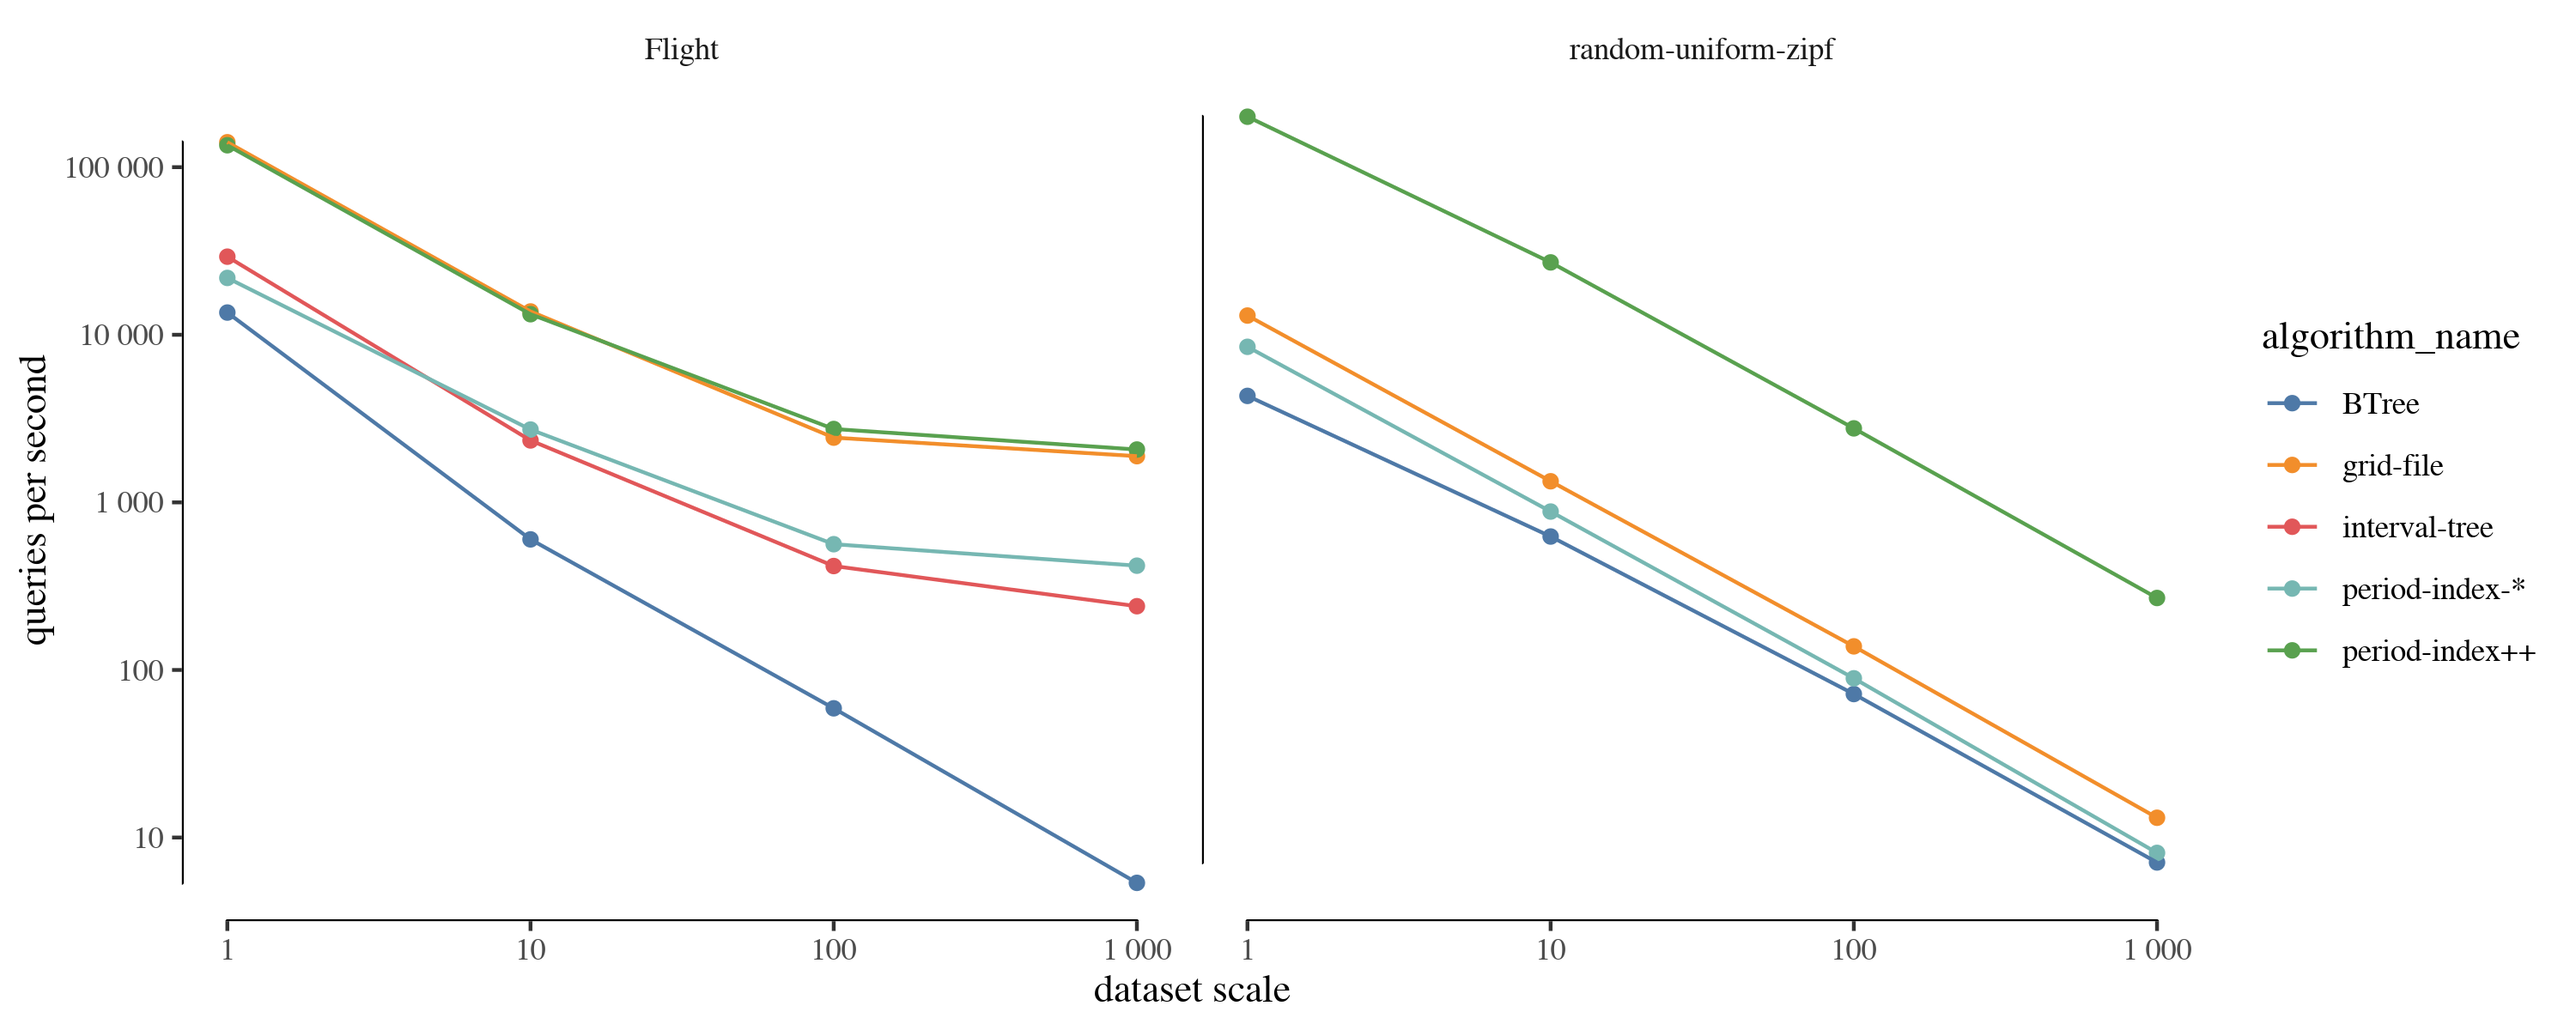
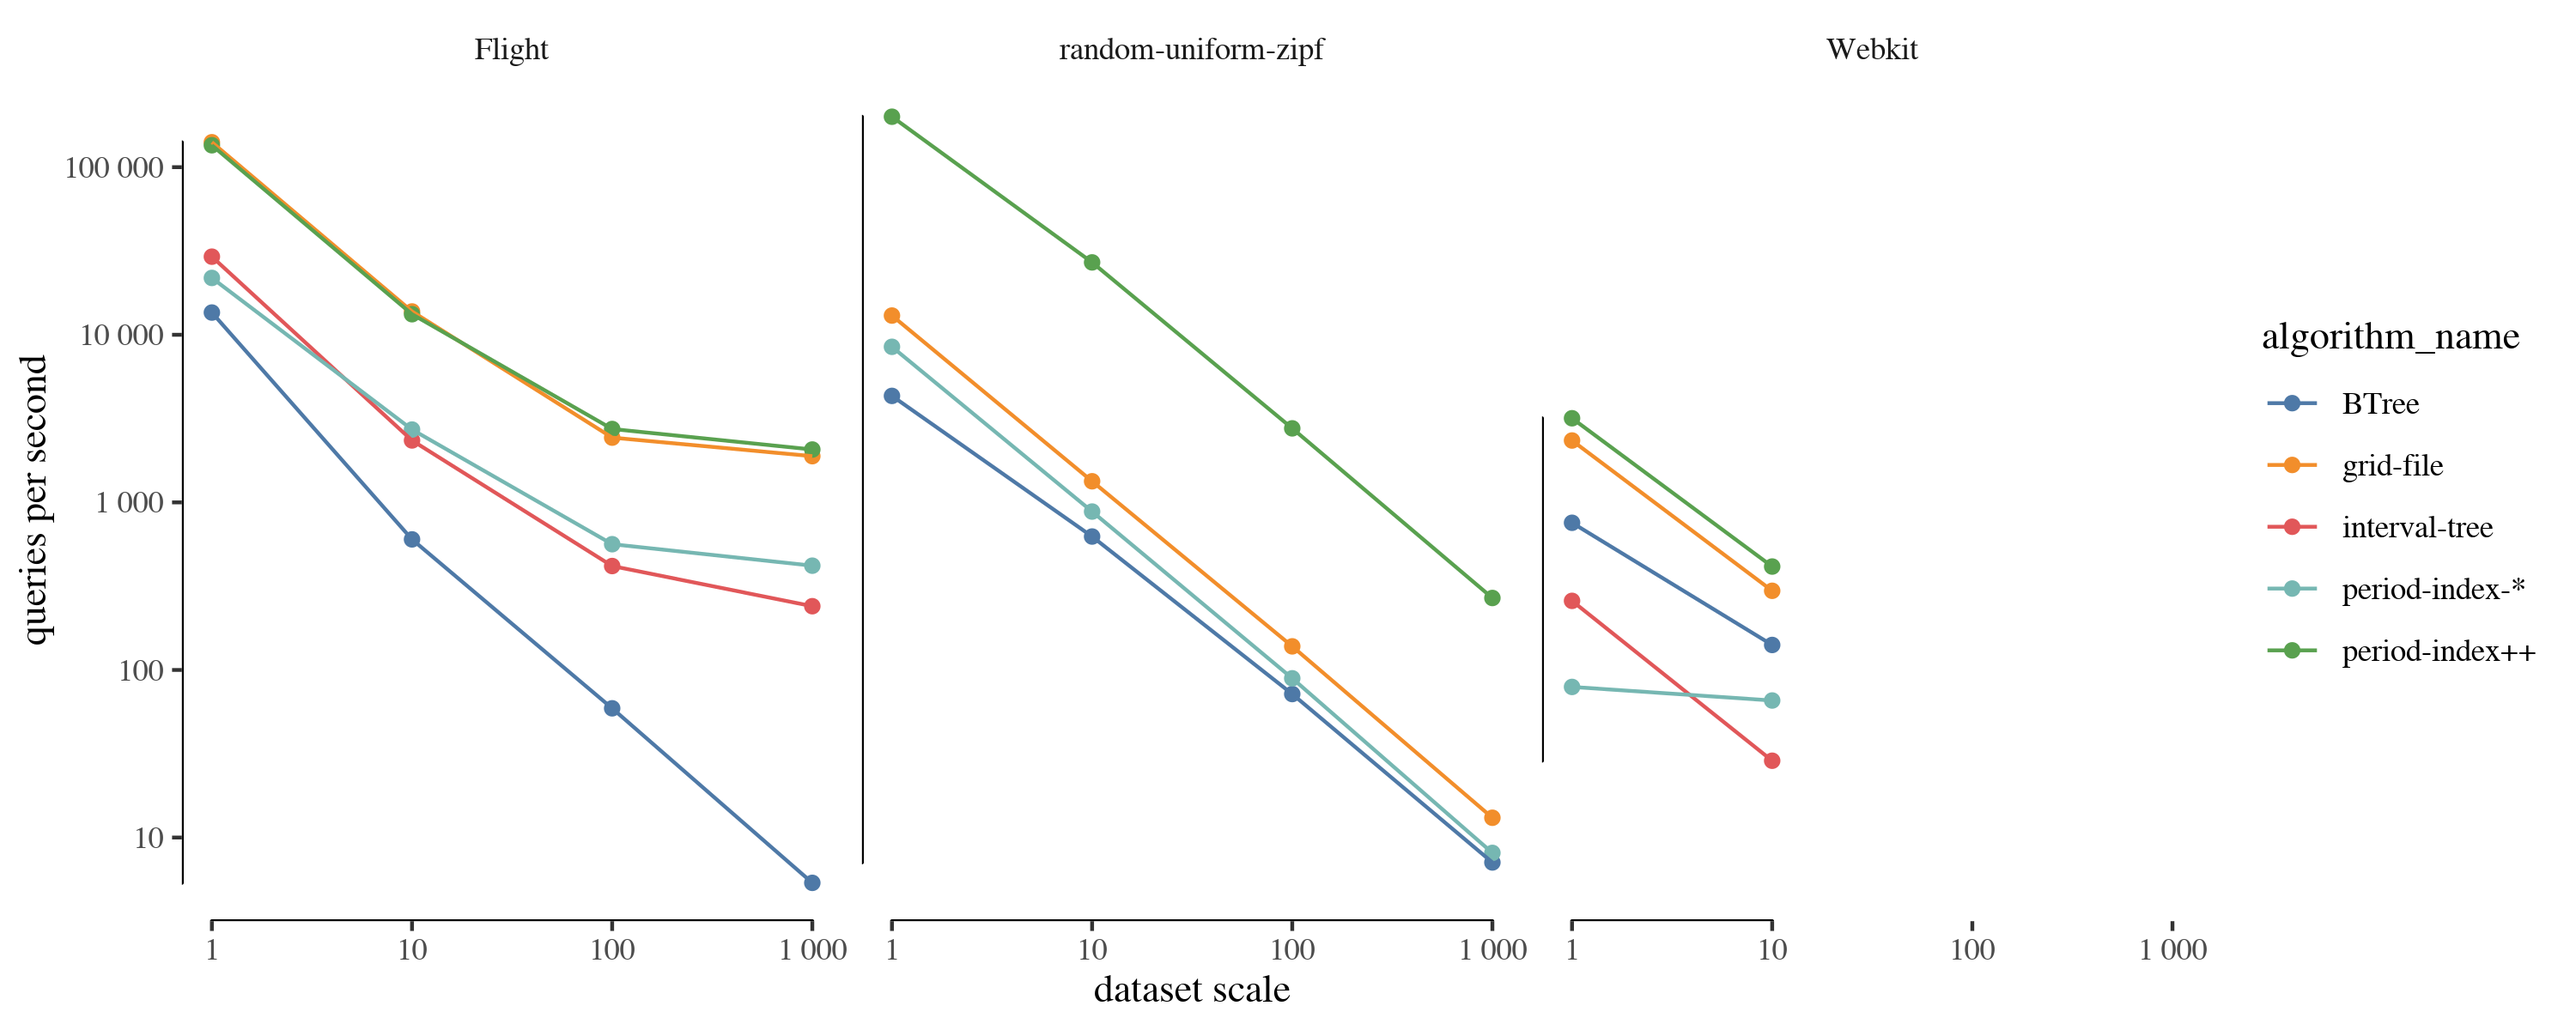
Expand section on scalability

diff --git a/paper/temporal-index.tex b/paper/temporal-index.tex
@@ -901,20 +901,27 @@ will need to be queried, thus improving performance.
 
 \begin{figure*}
 	\includegraphics[width=\textwidth]{images/scalability.png}
-	\caption{Scalability of the index structures for the increasing dataset sizes, up to one billion intervals.
-		Each point corresponds to the best configuration of the given data structure for a particular dataset size.
+	\caption{Scalability of the index structures for the increasing dataset sizes.
+		Synthetic datasets start from 10 million intervals up to one billion intervals.
+		Each point corresponds to the best configuration of the given data structure for a particular dataset scale.
 		The workload is of range-duration queries.
 		\label{fig:scalability}}
 	\Description{Scalability figure, showing that our proposed approach has superior performance for all tested
 		dataset sizes, and scales gracefully.}
 \end{figure*}
 
-To test the scalability of the data structures, we consider datasets of up to one billion elements, running
-5\,000 \qrd queries.
+To test the scalability of the index structures, we consider datasets of increasing sizes.
+For synthetic datasets we start with 10 million intervals, scaling by factors of 10 to one billion intervals.
+For real-world datasets, we artificially increase their size as follows.
+Given a dataset and a scale parameter $s$, let $\bar{t}$ the span of time covered by all the intervals in the dataset.
+We make $s$ copies of each interval, and shift copy $i$ in time by $i\cdot \bar{t}$, for $i\in[0, s)$.
+The underlying idea is to repeat the temporal patterns of the dataset on a longer time scale.
+
 Figure~\ref{fig:scalability} reports the performance of the best configuration of each algorithm,
 showing that the performance degrades gracefully as the dataset size increases, for all the data structures
 involved in the comparison.
-For all tested sizes, \ours is about one order of magnitude faster than the second-best data structure.
+On synthetic datasets, for all tested sizes, \ours is about one order of magnitude faster than the
+second-best data structure, \algo{grid-file}.
 
 
 % \bibliographystyle{plain}
